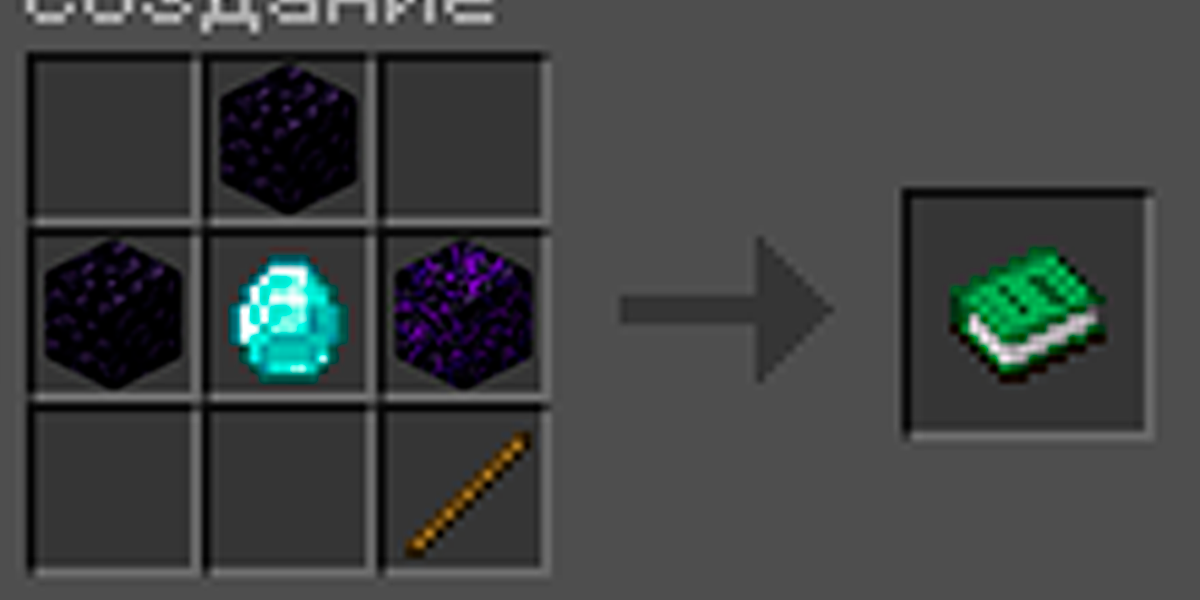
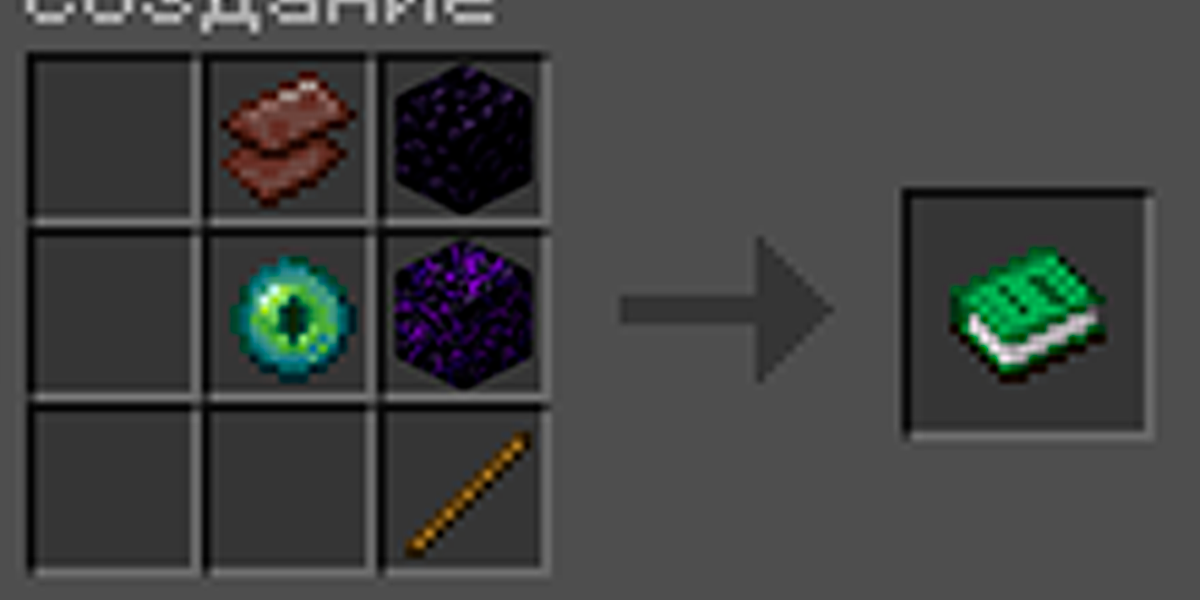
Add files via upload

Changed region(s): [[0.185, 0.09, 0.4625, 0.36], [0.0308, 0.39, 0.1542, 0.66], [0.185, 0.42, 0.3083, 0.66]]

diff --git a/crafts.html b/crafts.html
@@ -119,10 +119,30 @@
             <section>
                 <div class="containerD nopad green">
                     <h3 class="greentxt"><strong><span>Посох телепортации</span></strong></h3>
-                    <p>Посох переносит вас на 3.2 блока в точку вашего взгляда. Перезарядка 5 секунд.</p>
-                    <p>Крафт - 2 куска обсидиана, 1 плачущего обсидиана, 1 алмаза и 1 палки. Прикреплён скриншот.</p>
+                    <p>Посох переносит вас на 7.5 блоков в точку вашего взгляда. Перезарядка - 10 секунд.</p>
+                    <p>Крафт - Обсидиан, плачущий обсидиана, палка, незеритовый лом и глаз эндера. Прикреплён скриншот.</p>
                     <div class="craft">
                         <img src="img/teleport_wand.png" alt="">
+                    </div>
+                </div>
+            </section>
+            <section>
+                <div class="containerD nopad green">
+                    <h3 class="greentxt"><strong><span>Посох регенерации</span></strong></h3>
+                    <p>Посох спавнит зачарованное золотое яблоко с регенерацией II на 5 секунд. Перезарядка - 1 минута.</p>
+                    <p>Крафт - Обсидиан, плачущий обсидиана, палка, незеритовый лом и мак. Прикреплён скриншот.</p>
+                    <div class="craft">
+                        <img src="img/regen_wand.png" alt="">
+                    </div>
+                </div>
+            </section>
+            <section>
+                <div class="containerD nopad purple">
+                    <h3 class="purpletxt"><strong><span>Посох моментального урона</span></strong></h3>
+                    <p>Посох спавнит маленький динамит с моментальным уроном. Перезарядка - 1 минута.</p>
+                    <p>Крафт - Обсидиан, плачущий обсидиана, палка, незеритовый лом и маринованный паучий глаз. Прикреплён скриншот.</p>
+                    <div class="craft">
+                        <img src="img/moment_wand.png" alt="">
                     </div>
                 </div>
             </section>

diff --git a/balance.html b/balance.html
@@ -98,6 +98,15 @@
             </section>
             <section>
                 <div class="containerD nopad ">
+                    <h2 ><span>24.02.23</span></h2>
+                    <h3>Посох регенерации</h3>
+                    <p class="redtxt"><span>- Перезарядка посоха была увеличена до 60 секунд.</span></p>
+                    <h3>Посох моментального урона</h3>
+                    <p class="redtxt"><span>- Перезарядка посоха была увеличена до 60 секунд.</span></p>
+                </div>
+            </section>
+            <section>
+                <div class="containerD nopad ">
                     <h2 ><span>23.02.23</span></h2>
                     <h3>Посох телепортации</h3>
                     <p class="greentxt"><span>+ Телепортация с 3.2 блока была увеличена до 7.5 блоков.</span></p>
